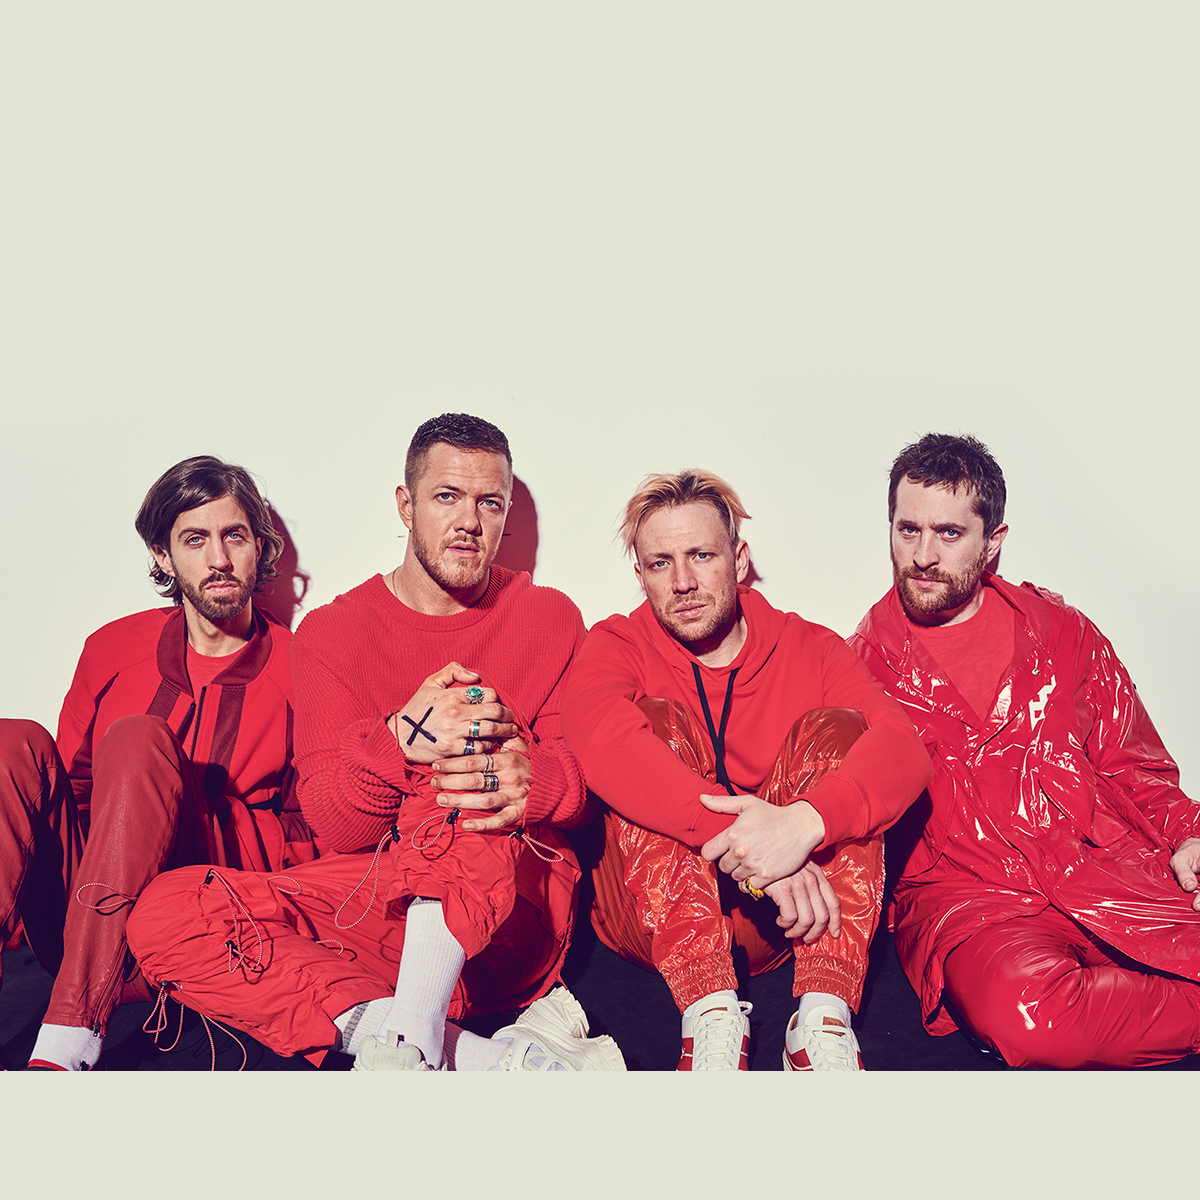
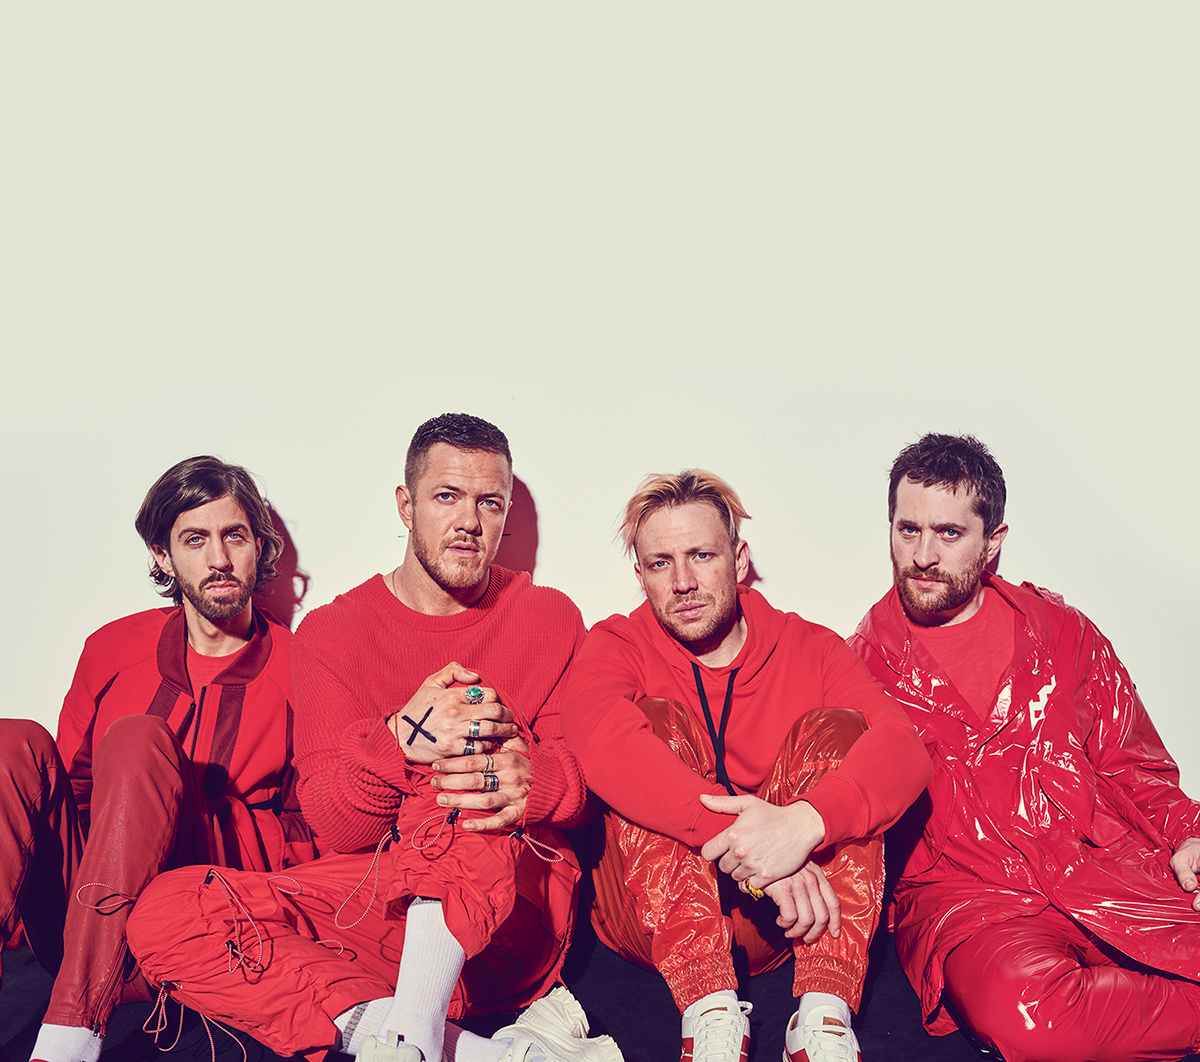
End of Class Upload for 10-29
What I did- Added all of the rest of the content for the Home and About pages
edited some of the photos that needed it, still have a few more

What I need to do- style and format the text
figure out the formatting for the footer form
work on tour page
add hover state for the albums on the home page

diff --git a/about.html b/about.html
@@ -12,6 +12,7 @@
 
   <link rel="stylesheet" href="css/normalize.css">
   <link rel="stylesheet" href="css/main.css">
+  <link href="https://fonts.googleapis.com/css2?family=Noto+Sans:ital,wght@0,400;0,700;1,400;1,700&display=swap" rel="stylesheet">
 </head>
 
 <body>
@@ -39,7 +40,7 @@
     </div>
 
     <div class="about_large_panel">
-      <img src="img/about_large_band.jpg">
+      <img src="img/about_large_band.png">
     </div>
 
     <div class="about_bandinfo_panel">
@@ -60,6 +61,39 @@
         </p>
     </div>
 
+  <!-- Sections for each member's about info -->
+  <div class="about_DRinfo_panel">
+    <p>Dan Reynolds</p><p>Lead Vocalist</p><br>
+    <p>Hometown: Las Vegas, NV</p><br>
+    <p>Daniel Coulter Reynolds is an American singer, songwriter, and record producer.</p>
+    <img src="img/about_DRinfo_1.jpg"><br>
+    <img src="img/about_DRinfo_2.jpg"><br>
+    <img src="img/about_DRinfo_3.jpg"><br>
+
+  <div class="about_WSinfo_panel">
+    <p>Wayne Sermon</p><p>Guitar</p><br>
+    <p>Hometown: American Fork, UT</p><br>
+    <p>Daniel Wayne Sermon is an American musician, songwriter, and record producer.</p>
+    <img src="img/about_WSinfo_1.jpg"><br>
+    <img src="img/about_WSinfo_2.jpg"><br>
+    <img src="img/about_WSinfo_3.jpg"><br>
+
+
+  <div class="about_DPinfo_panel">
+    <p>Daniel Platzman</p><p>Percussion</p><br>
+    <p>Hometown: Atlanta, GA</p><br>
+    <p>Daniel James Platzman is an American musician, songwriter, record producer, composer, and film scorer.</p>
+    <img src="img/about_DPinfo_1.jpg"><br>
+    <img src="img/about_DPinfo_2.jpg"><br>
+    <img src="img/about_DPinfo_3.jpg"><br>
+
+  <div class="about_BMinfo_panel">
+    <p>Ben McKee</p><p>Bass</p><br>
+    <p>Hometown: Forestville, CA</p><br>
+    <p>need to add his description and check Wayne's</p>
+    <img src="img/about_BMinfo_1.jpg"><br>
+    <img src="img/about_BMinfo_2.jpg"><br>
+    <img src="img/about_BMinfo_3.jpg"><br>
   </section>
 
   <!-- Footer -->

diff --git a/css/main.css b/css/main.css
@@ -46,6 +46,9 @@ textarea {
 ==============Author's custom styles ===================
 ========================================================
 ======================================================== */
+p, body, nav{
+  font-family: 'Noto Sans', sans-serif;
+}
 body{
   width: 100vw;
   margin: 0px;
@@ -129,10 +132,6 @@ nav ul li a:hover{
   vertical-align: middle;
 }
 
-.about_bandinfo_panel p{
-  background-color: #2a4163;
-  color: #ffffff;
-}
 
 /* Got rid of the div stripes and made it an SVG background image */
 .home_section, .tour_section, .about_section{
@@ -181,7 +180,6 @@ nav ul li a:hover{
 }
 
 
-
 .about_large_panel{
   text-align: center;
 }
@@ -199,6 +197,72 @@ nav ul li a:hover{
   width: 41.125%;
   margin-top: 15px;
   margin-bottom: 15px;
+}
+.about_bandinfo_panel p{
+  background-color: #2a4163;
+  color: #ffffff;
+  padding: 10px;
+  width: 60%;
+}
+
+.about_DRinfo_panel{
+  text-align: left;
+  width: 100%;
+}
+.about_DRinfo_panel img{
+  text-align: left;
+  width: 60%;
+}
+.about_DRinfo_panel p{
+  background-color: #2a4163;
+  color: #ffffff;
+  padding: 10px;
+  width: 60%;
+}
+
+.about_WSinfo_panel{
+  text-align: left;
+  width: 100%;
+}
+.about_WSinfo_panel img{
+  text-align: left;
+  width: 60%;
+}
+.about_WSinfo_panel p{
+  background-color: #2a4163;
+  color: #ffffff;
+  padding: 10px;
+  width: 60%;
+}
+
+.about_DPinfo_panel{
+  text-align: left;
+  width: 100%;
+}
+.about_DPinfo_panel img{
+  text-align: left;
+  width: 60%;
+}
+.about_DPinfo_panel p{
+  background-color: #2a4163;
+  color: #ffffff;
+  padding: 10px;
+  width: 60%;
+}
+
+.about_BMinfo_panel{
+  text-align: left;
+  width: 100%;
+}
+.about_BMinfo_panel img{
+  text-align: left;
+  width: 60%;
+}
+.about_BMinfo_panel p{
+  background-color: #2a4163;
+  color: #ffffff;
+  padding: 10px;
+  width: 60%;
 }
 
 /* ===== This is the CSS for the footer for every page === */

diff --git a/index.html b/index.html
@@ -12,6 +12,7 @@
 
   <link rel="stylesheet" href="css/normalize.css">
   <link rel="stylesheet" href="css/main.css">
+  <link href="https://fonts.googleapis.com/css2?family=Noto+Sans:ital,wght@0,400;0,700;1,400;1,700&display=swap" rel="stylesheet">
 </head>
 
 <body>

diff --git a/tour.html b/tour.html
@@ -12,6 +12,7 @@
 
   <link rel="stylesheet" href="css/normalize.css">
   <link rel="stylesheet" href="css/main.css">
+  <link href="https://fonts.googleapis.com/css2?family=Noto+Sans:ital,wght@0,400;0,700;1,400;1,700&display=swap" rel="stylesheet">
 </head>
 
 <body>
